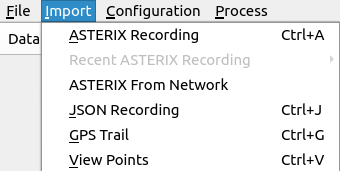
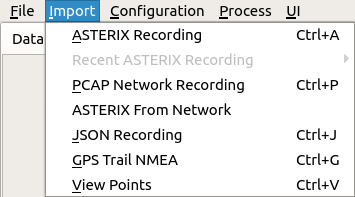
updated import section, pcap etc

diff --git a/doc/user_manual/ui_overview/ui_import_pcap.tex b/doc/user_manual/ui_overview/ui_import_pcap.tex
@@ -1,0 +1,29 @@
+\subsection{Import PCAP Network Recording}
+\label{sec:ui_import_pcap}
+
+This task allows importing of ASTERIX data from a network recording stored as a PCAP file. \\
+
+After selecting a PCAP file, the file is analyzed and an import dialog opens, showing a list of all network streams
+found in the file. 
+
+\begin{figure}[H]
+    \center
+      \hspace*{-0.5cm}
+      \includegraphics[width=17cm]{figures/asterix_import_pcap.png}
+    \caption{Import ASTERIX from PCAP}
+  \end{figure}
+
+Such a network stream is always listed in the following format: \\
+
+\textit{Source IP Address : Source Port => Destination IP Address : Destination Port} \\
+
+For each network stream embedded byte data is collected and checked for valid ASTERIX data.
+Network streams not containing valid ASTERIX data will be disabled and cannot be chosen for import.
+A network stream containing valid ASTERIX data can be selected for import by using the data item's check box. \\
+
+If one or more valid network streams are selected, the import can be carried out by clicking on the \textit{Import} button. \\
+
+The other settings are similar to those in the ASTERIX file import, please refer to \nameref{sec:ui_import_asterix} for details. \\
+
+Please \textbf{note} that in the case of a PCAP file the framing selection has no effect, since the data is always imported as raw/netto.
+

diff --git a/doc/user_manual/ui_overview/ui_overview.tex b/doc/user_manual/ui_overview/ui_overview.tex
@@ -58,6 +58,10 @@ After a database was opened, the 'Import' menu becomes available, and the main w
   \begin{itemize}
  \item see \nameref{sec:ui_import_asterix}
  \end{itemize}
+ \item PCAP Network Recording: Import ASTERIX from a PCAP network recording
+  \begin{itemize}
+ \item see \nameref{sec:ui_import_pcap}
+ \end{itemize}
  \item ASTERIX From Network: Import ASTERIX from network interfaces in Live mode
   \begin{itemize}
  \item see \nameref{sec:ui_import_asterix_network}

diff --git a/doc/user_manual/ui_overview/ui_import_asterix.tex b/doc/user_manual/ui_overview/ui_import_asterix.tex
@@ -1,7 +1,7 @@
 \subsection{Import ASTERIX Recording}
 \label{sec:ui_import_asterix}
 
-This task allows importing of ASTERIX data recording files into the opened database. \\
+\hl{TODO: update - This task allows importing of ASTERIX data recording files into the opened database.} \\
 
 \begin{figure}[H]
   \center

diff --git a/doc/user_manual/ui_overview/ui_import_data.tex b/doc/user_manual/ui_overview/ui_import_data.tex
@@ -2,6 +2,7 @@
 
 \subfile{ui_import_asterix}
 \subfile{ui_import_asterix_network}
+\subfile{ui_import_pcap}
 \subfile{ui_import_json}
 \subfile{ui_import_gps}
 \subfile{ui_import_view_points}
